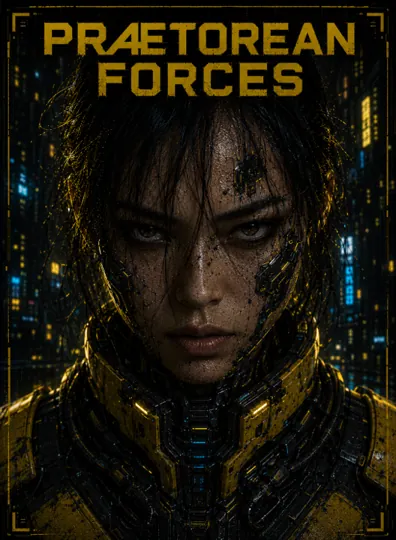
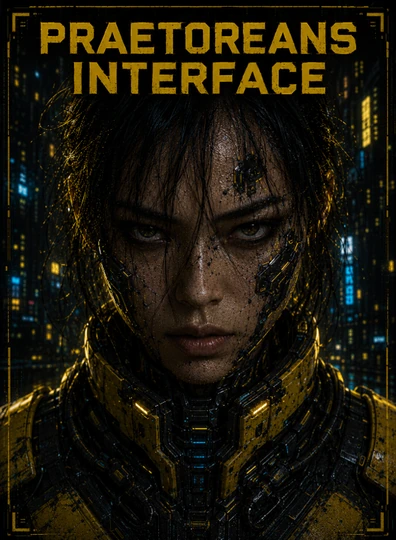
Correct the lettering on the Zaphire Trials and Praetoreans Interface cards

Changed region(s): [[0.0909, 0.0296, 0.9091, 0.1778]]

diff --git a/index.html b/index.html
@@ -74,7 +74,7 @@
       <details id="realm-zaphire" class="realm-preview" name="realm-cards" style="--realm-accent:#58a4ff">
         <summary class="realm-toggle">
           <span class="realm-print">
-            <img src="assets/realms/zaphire.webp" width="396" height="540" alt="Zaphire Trials" loading="lazy" decoding="async">
+            <img src="assets/realms/zaphire.webp?v=title-2" width="396" height="540" alt="Zaphire Trials" loading="lazy" decoding="async">
           </span>
           <span class="realm-strip">
             <span data-en="Blue belt">Cinturón azul</span>
@@ -137,7 +137,7 @@
       <details id="realm-praetoreans" class="realm-preview" name="realm-cards" style="--realm-accent:#dfb75f">
         <summary class="realm-toggle">
           <span class="realm-print">
-            <img src="assets/realms/praetoreans.webp" width="396" height="540" alt="Praetoreans Interface" loading="lazy" decoding="async">
+            <img src="assets/realms/praetoreans.webp?v=title-2" width="396" height="540" alt="Praetoreans Interface" loading="lazy" decoding="async">
           </span>
           <span class="realm-strip">
             <span data-en="Black belt · 1st degree">Cinturón negro · 1.er grado</span>
